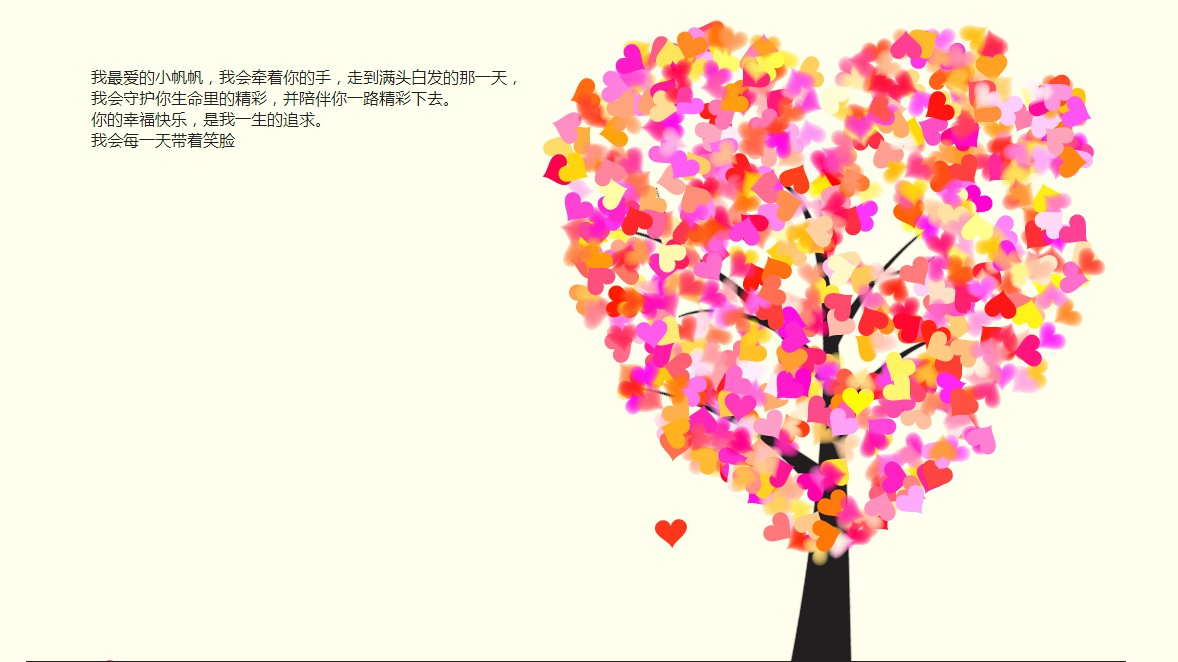
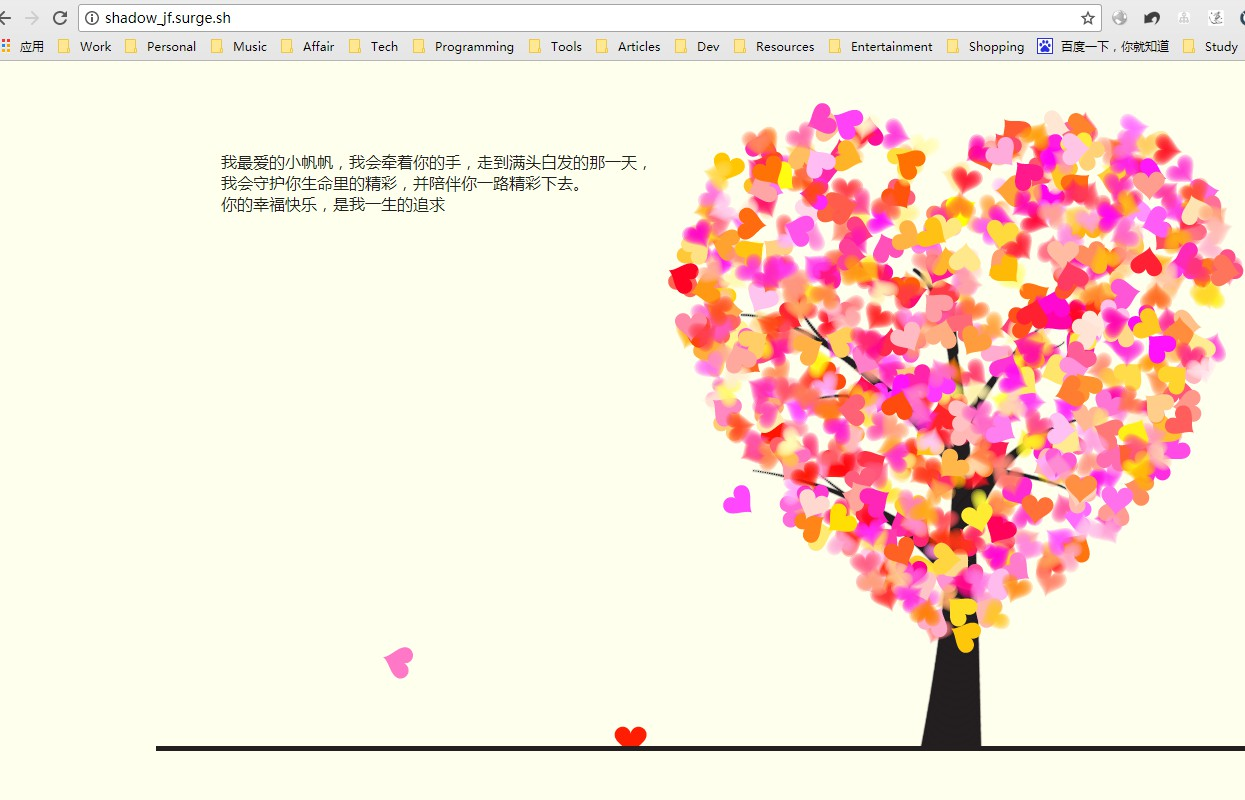
modify picture

diff --git a/_posts/2017-07-04-Surge.md b/_posts/2017-07-04-Surge.md
@@ -1,10 +1,10 @@
 ---
 layout: post_layout
-title: Surge.sh
+title: Surge
 time: 2017年07月04日 星期二
 location: 北京
 pulished: true
-tag: Web
+tag: tech
 excerpt_separator: "----"
 ---
 
@@ -29,5 +29,7 @@ excerpt_separator: "----"
 	surge
 
 　　就可以了！！是不是很简单，执行完之后，如果是第一次，会提示你创建用户，输入邮箱和密码，然后会让你自定义域名，域名必须是唯一的，如果域名已被占用，是不会成功的。部署成功后，输入域名就可以访问你的静态网页了！！！！
+
+　　如下就是我把同事秀恩爱的那个静态网页部到surge上的效果  ﾍ(´ー｀ﾍ)
 
 ![]({{site.pictureurl}}77.jpg?raw=true)
